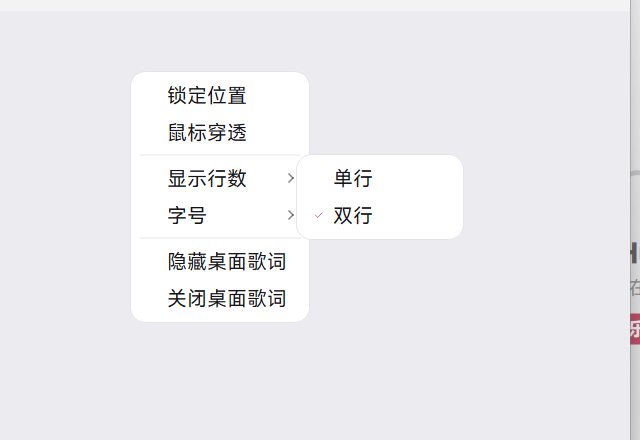
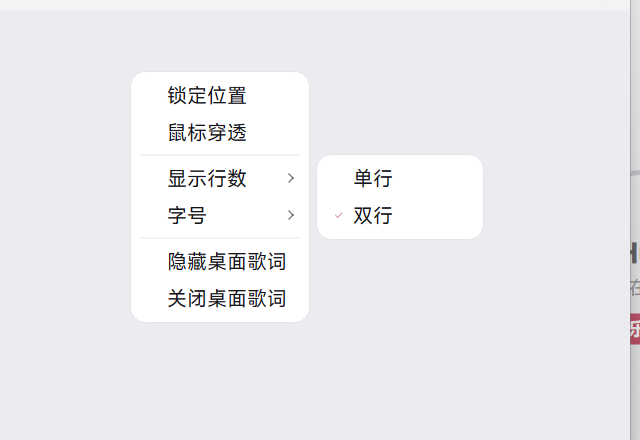
fix(1.1.25): 歌单菜单返回菜单对象、二级菜单留间隙不重叠

Changed region(s): [[0.4688, 0.4727, 0.625, 0.5318], [0.5, 0.3841, 0.625, 0.4432]]

diff --git a/hushplayer/ui/widgets/popup.py b/hushplayer/ui/widgets/popup.py
@@ -23,6 +23,7 @@ from ...core.theme import rgba, theme
 ROW_HEIGHT = 32
 PAD_X = 12
 PAD_Y = 6
+_SUBMENU_GAP = 6
 
 _DWMWA_WINDOW_CORNER_PREFERENCE = 33
 _DWMWCP_DONOTROUND = 1
@@ -201,7 +202,7 @@ class PopupMenu(QWidget):
             child_w, child_h = self._submenu._intrinsic_size()
             top, _ = self._rows()[self._sub_open]
             child_top = max(PAD_Y, top - PAD_Y)
-            total_width = width + child_w - 14
+            total_width = width + _SUBMENU_GAP + child_w
             total_height = max(height, child_top + child_h + PAD_Y)
         self.setFixedSize(int(total_width), int(total_height))
 
@@ -372,7 +373,7 @@ class PopupMenu(QWidget):
             return QRectF()
         top, _ = self._rows()[self._sub_open]
         child_w, child_h = self._submenu._intrinsic_size()
-        return QRectF(self._base_width - 14, max(PAD_Y, top - PAD_Y), child_w, child_h)
+        return QRectF(self._base_width + _SUBMENU_GAP, max(PAD_Y, top - PAD_Y), child_w, child_h)
 
     # ------------------------------------------------------------------- events
     def _item_at(self, y: int) -> int:

diff --git a/hushplayer/ui/menus.py b/hushplayer/ui/menus.py
@@ -221,8 +221,8 @@ def reveal_in_explorer(path: str) -> None:
         log.exception("无法打开资源管理器")
 
 
-def playlist_menu(parent: QWidget, playlist_id: int, name: str, position: QPoint) -> None:
-    """Context menu for a sidebar playlist entry."""
+def playlist_menu(parent: QWidget, playlist_id: int, name: str):
+    """Build (but do not show) the sidebar playlist context menu."""
     app = ctx()
     menu = themed_menu(parent)
     play = menu.addAction("播放")
@@ -232,7 +232,7 @@ def playlist_menu(parent: QWidget, playlist_id: int, name: str, position: QPoint
     rename.triggered.connect(lambda: _rename_playlist(parent, playlist_id, name))
     delete = menu.addAction("删除歌单")
     delete.triggered.connect(lambda: _delete_playlist(parent, playlist_id, name))
-    menu.exec(position)
+    return menu
 
 
 def _play_playlist(playlist_id: int) -> None:

diff --git a/tests/test_gui_smoke.py b/tests/test_gui_smoke.py
@@ -464,3 +464,17 @@ def test_lyrics_click_through_escape_hotkey_registered():
     assert "unlock_lyrics" in DEFAULT_HOTKEYS
     assert DEFAULT_HOTKEYS["unlock_lyrics"][2] == "Ctrl+Alt+L"
     assert GlobalHotkeys._ACTIONS["unlock_lyrics"] == "unlock_lyrics_requested"
+
+def test_playlist_context_menu_is_returned_not_shown(app_bundle):
+    """The sidebar playlist menu must be returned to the caller.
+
+    It used to call exec() itself and return None, so the caller crashed with
+    "'NoneType' object has no attribute 'exec'" right after the menu closed.
+    """
+    from hushplayer.ui.menus import playlist_menu
+
+    window = app_bundle[1]
+    menu = playlist_menu(window, 1, "测试歌单")
+    assert menu is not None
+    assert hasattr(menu, "exec")
+    assert menu._items

diff --git a/hushplayer/ui/main_window.py b/hushplayer/ui/main_window.py
@@ -408,7 +408,7 @@ class MainWindow(FramelessWindow):
         playlist = ctx().library.playlist(playlist_id)
         if playlist is None:
             return
-        menu = playlist_menu(self, playlist_id, playlist.name, position)
+        menu = playlist_menu(self, playlist_id, playlist.name)
         menu.exec(position)
         self._refresh_sidebar()
 

diff --git a/hushplayer/version.py b/hushplayer/version.py
@@ -4,7 +4,7 @@ from __future__ import annotations
 
 APP_NAME = "HushPlayer"
 APP_ID = "com.hushplayer.desktop"
-VERSION = "1.1.24"
+VERSION = "1.1.25"
 BUILD_CHANNEL = "stable"
 VERSION_TUPLE = tuple(int(part) for part in VERSION.split("."))
 
